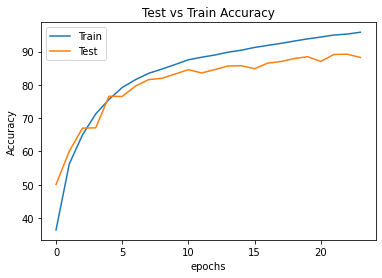
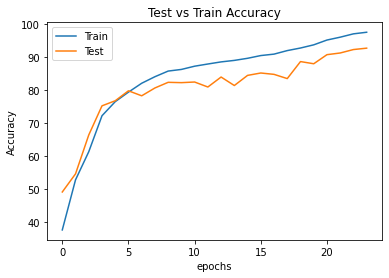
Updaet Assignment 11

diff --git a/11_SuperConvergence/Readme.md b/11_SuperConvergence/Readme.md
@@ -11,7 +11,7 @@
 Colab file:(https://colab.research.google.com/drive/1EY1r2mzga7bmBBYUWGY2aNGTuijCCkAG?usp=sharing)
 
 
-To run the model, first we need to install the package 'pynoob' using !pip install pynoob.
+To run the model, first we need to install the package 'pynoob' using !pip install pynoob==0.1.0.6
 
 Alternately, we can upload all the necessary packagesto the colab directory. The packages can be found in the 11_SuperConvergence/packages folder of EVA4 repo.
 
@@ -73,9 +73,9 @@ Achieve the following on the **CIFAR-10** dataset:
 
 Achieved accuracy of
 
-**Test - 89.2%**
+**Test - 92.68%**
 
-**Train - 95.794%**
+**Train - 97.5%**
 
 **Learning Rate Finder:**
 
@@ -109,22 +109,22 @@ Achieved accuracy of
 
 ## **Class Wise Accuracies:**
 
-Accuracy of plane : 92 %
+Accuracy of plane : 95 %
 
-Accuracy of   car : 96 %
+Accuracy of   car : 97 %
 
-Accuracy of  bird : 86 %
+Accuracy of  bird : 88 %
 
-Accuracy of   cat : 78 %
+Accuracy of   cat : 84 %
 
-Accuracy of  deer : 90 %
+Accuracy of  deer : 93 %
 
-Accuracy of   dog : 77 %
+Accuracy of   dog : 88 %
 
-Accuracy of  frog : 94 %
+Accuracy of  frog : 96 %
 
-Accuracy of horse : 94 %
+Accuracy of horse : 95 %
 
-Accuracy of  ship : 91 %
+Accuracy of  ship : 94 %
 
-Accuracy of truck : 89 %
+Accuracy of truck : 91 %
